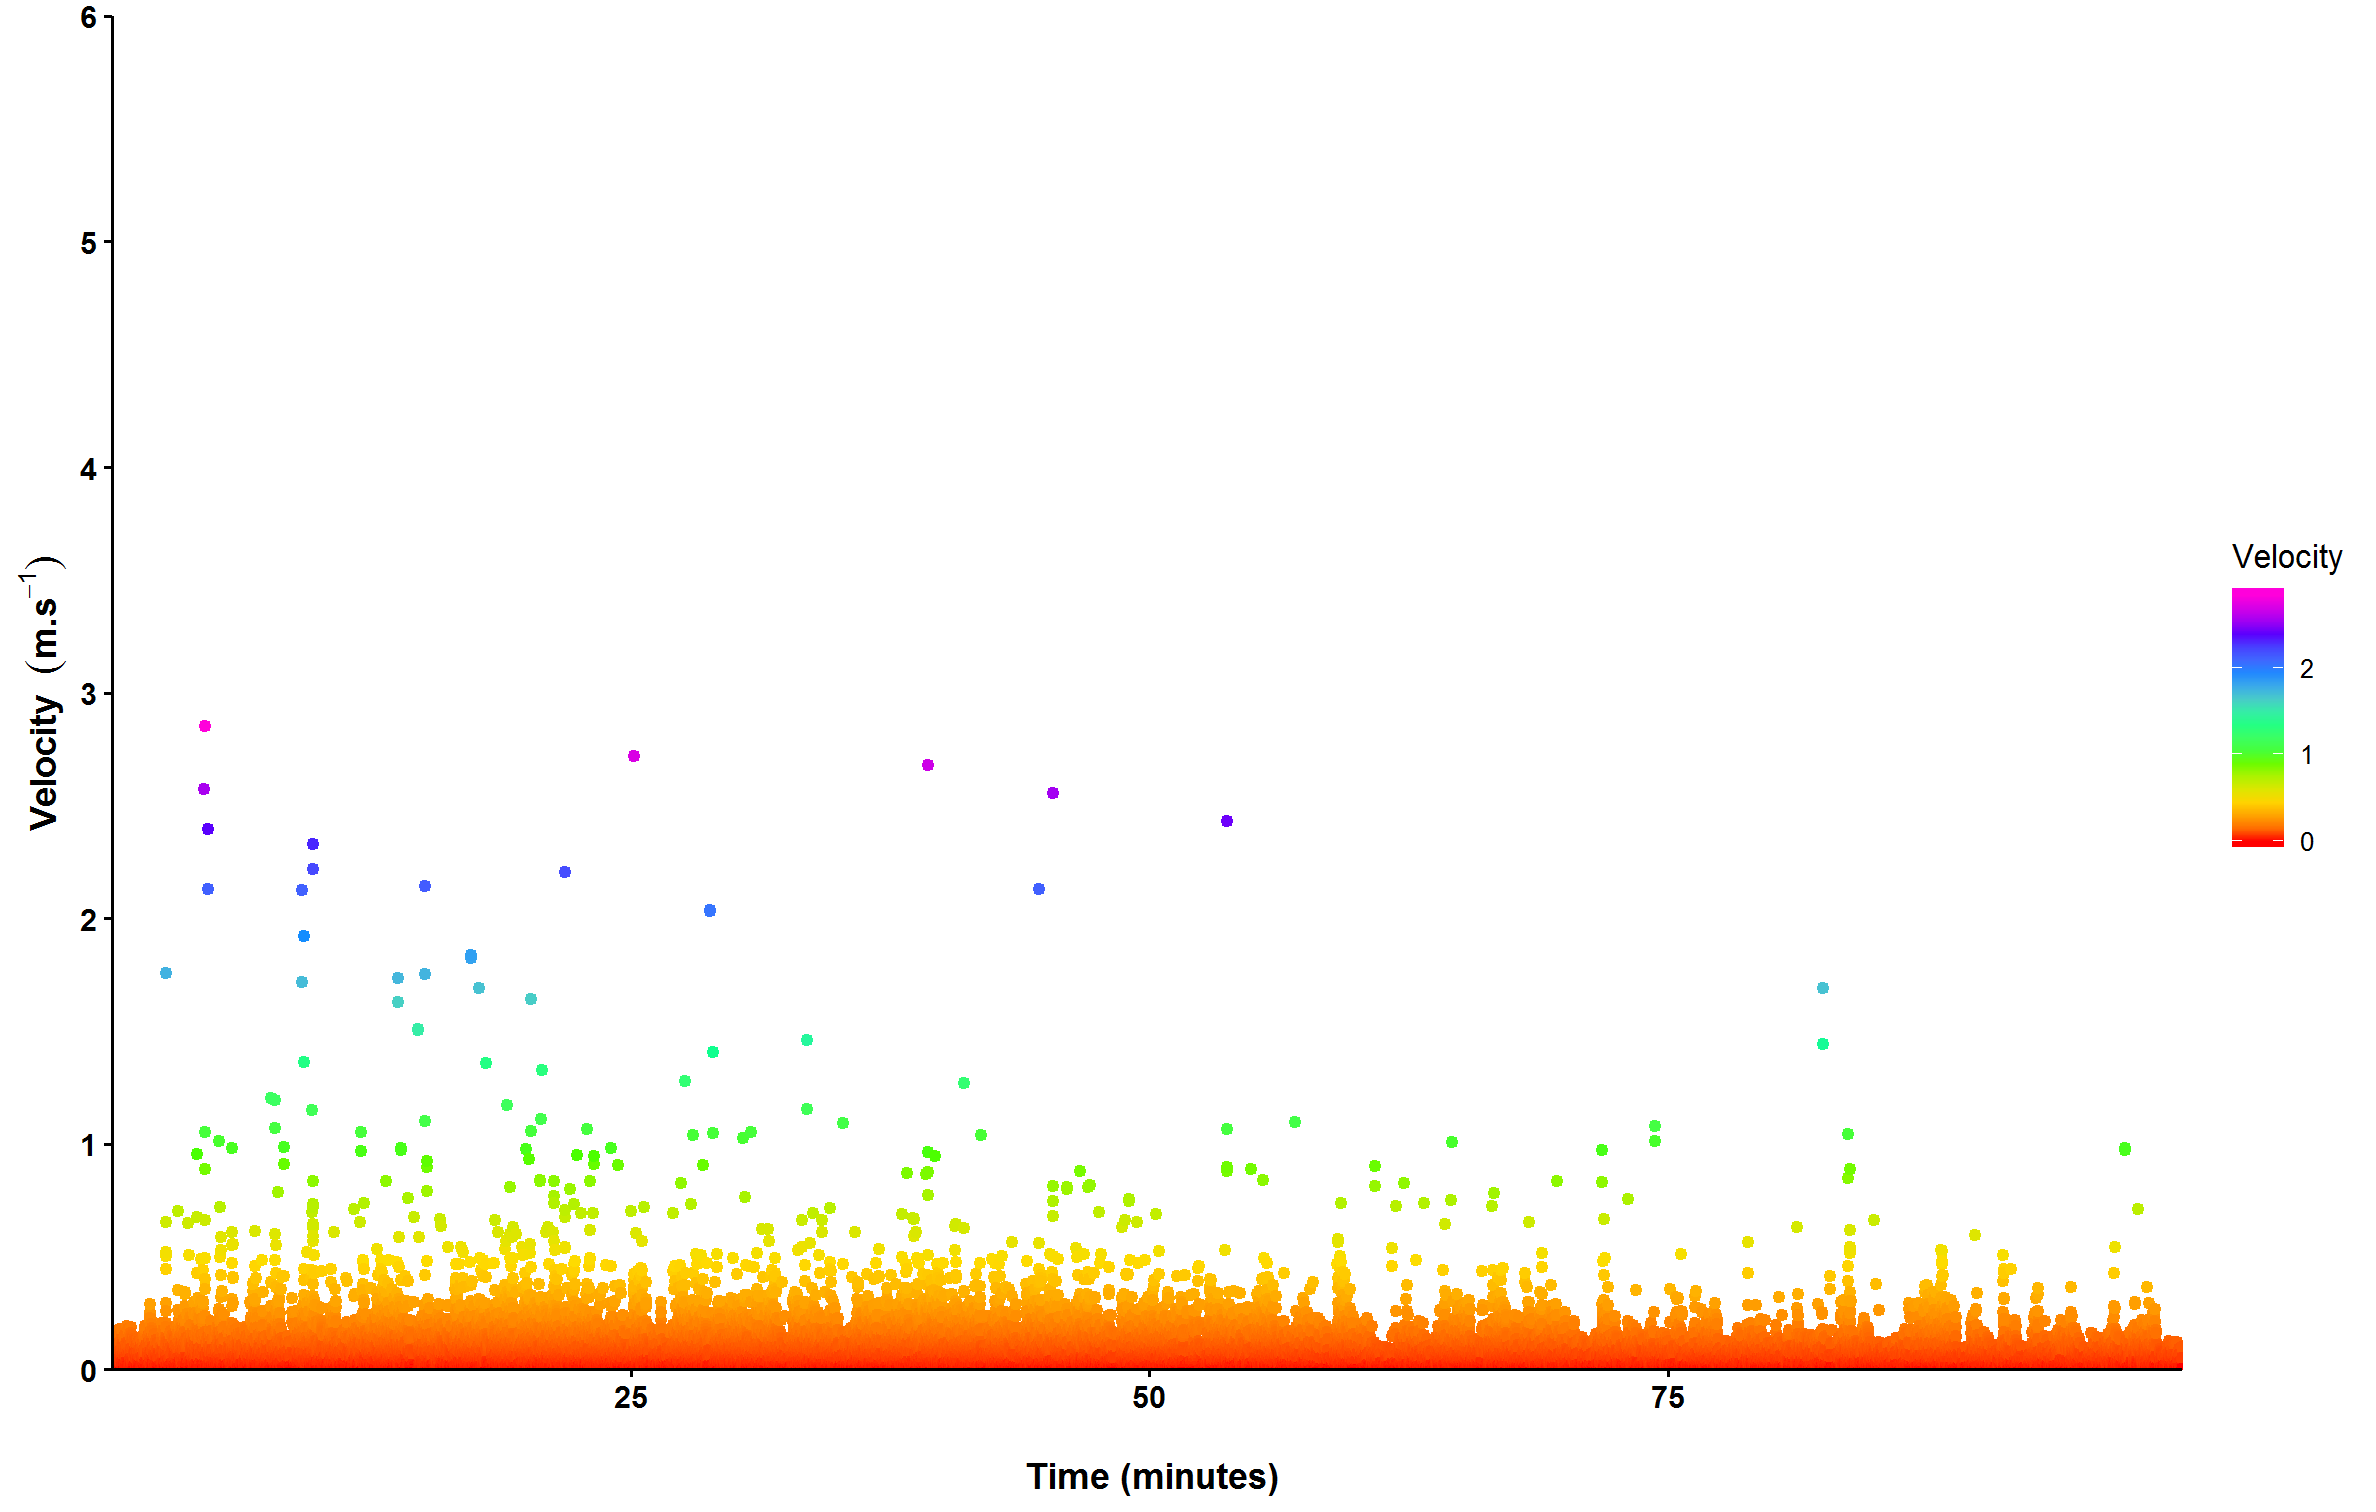
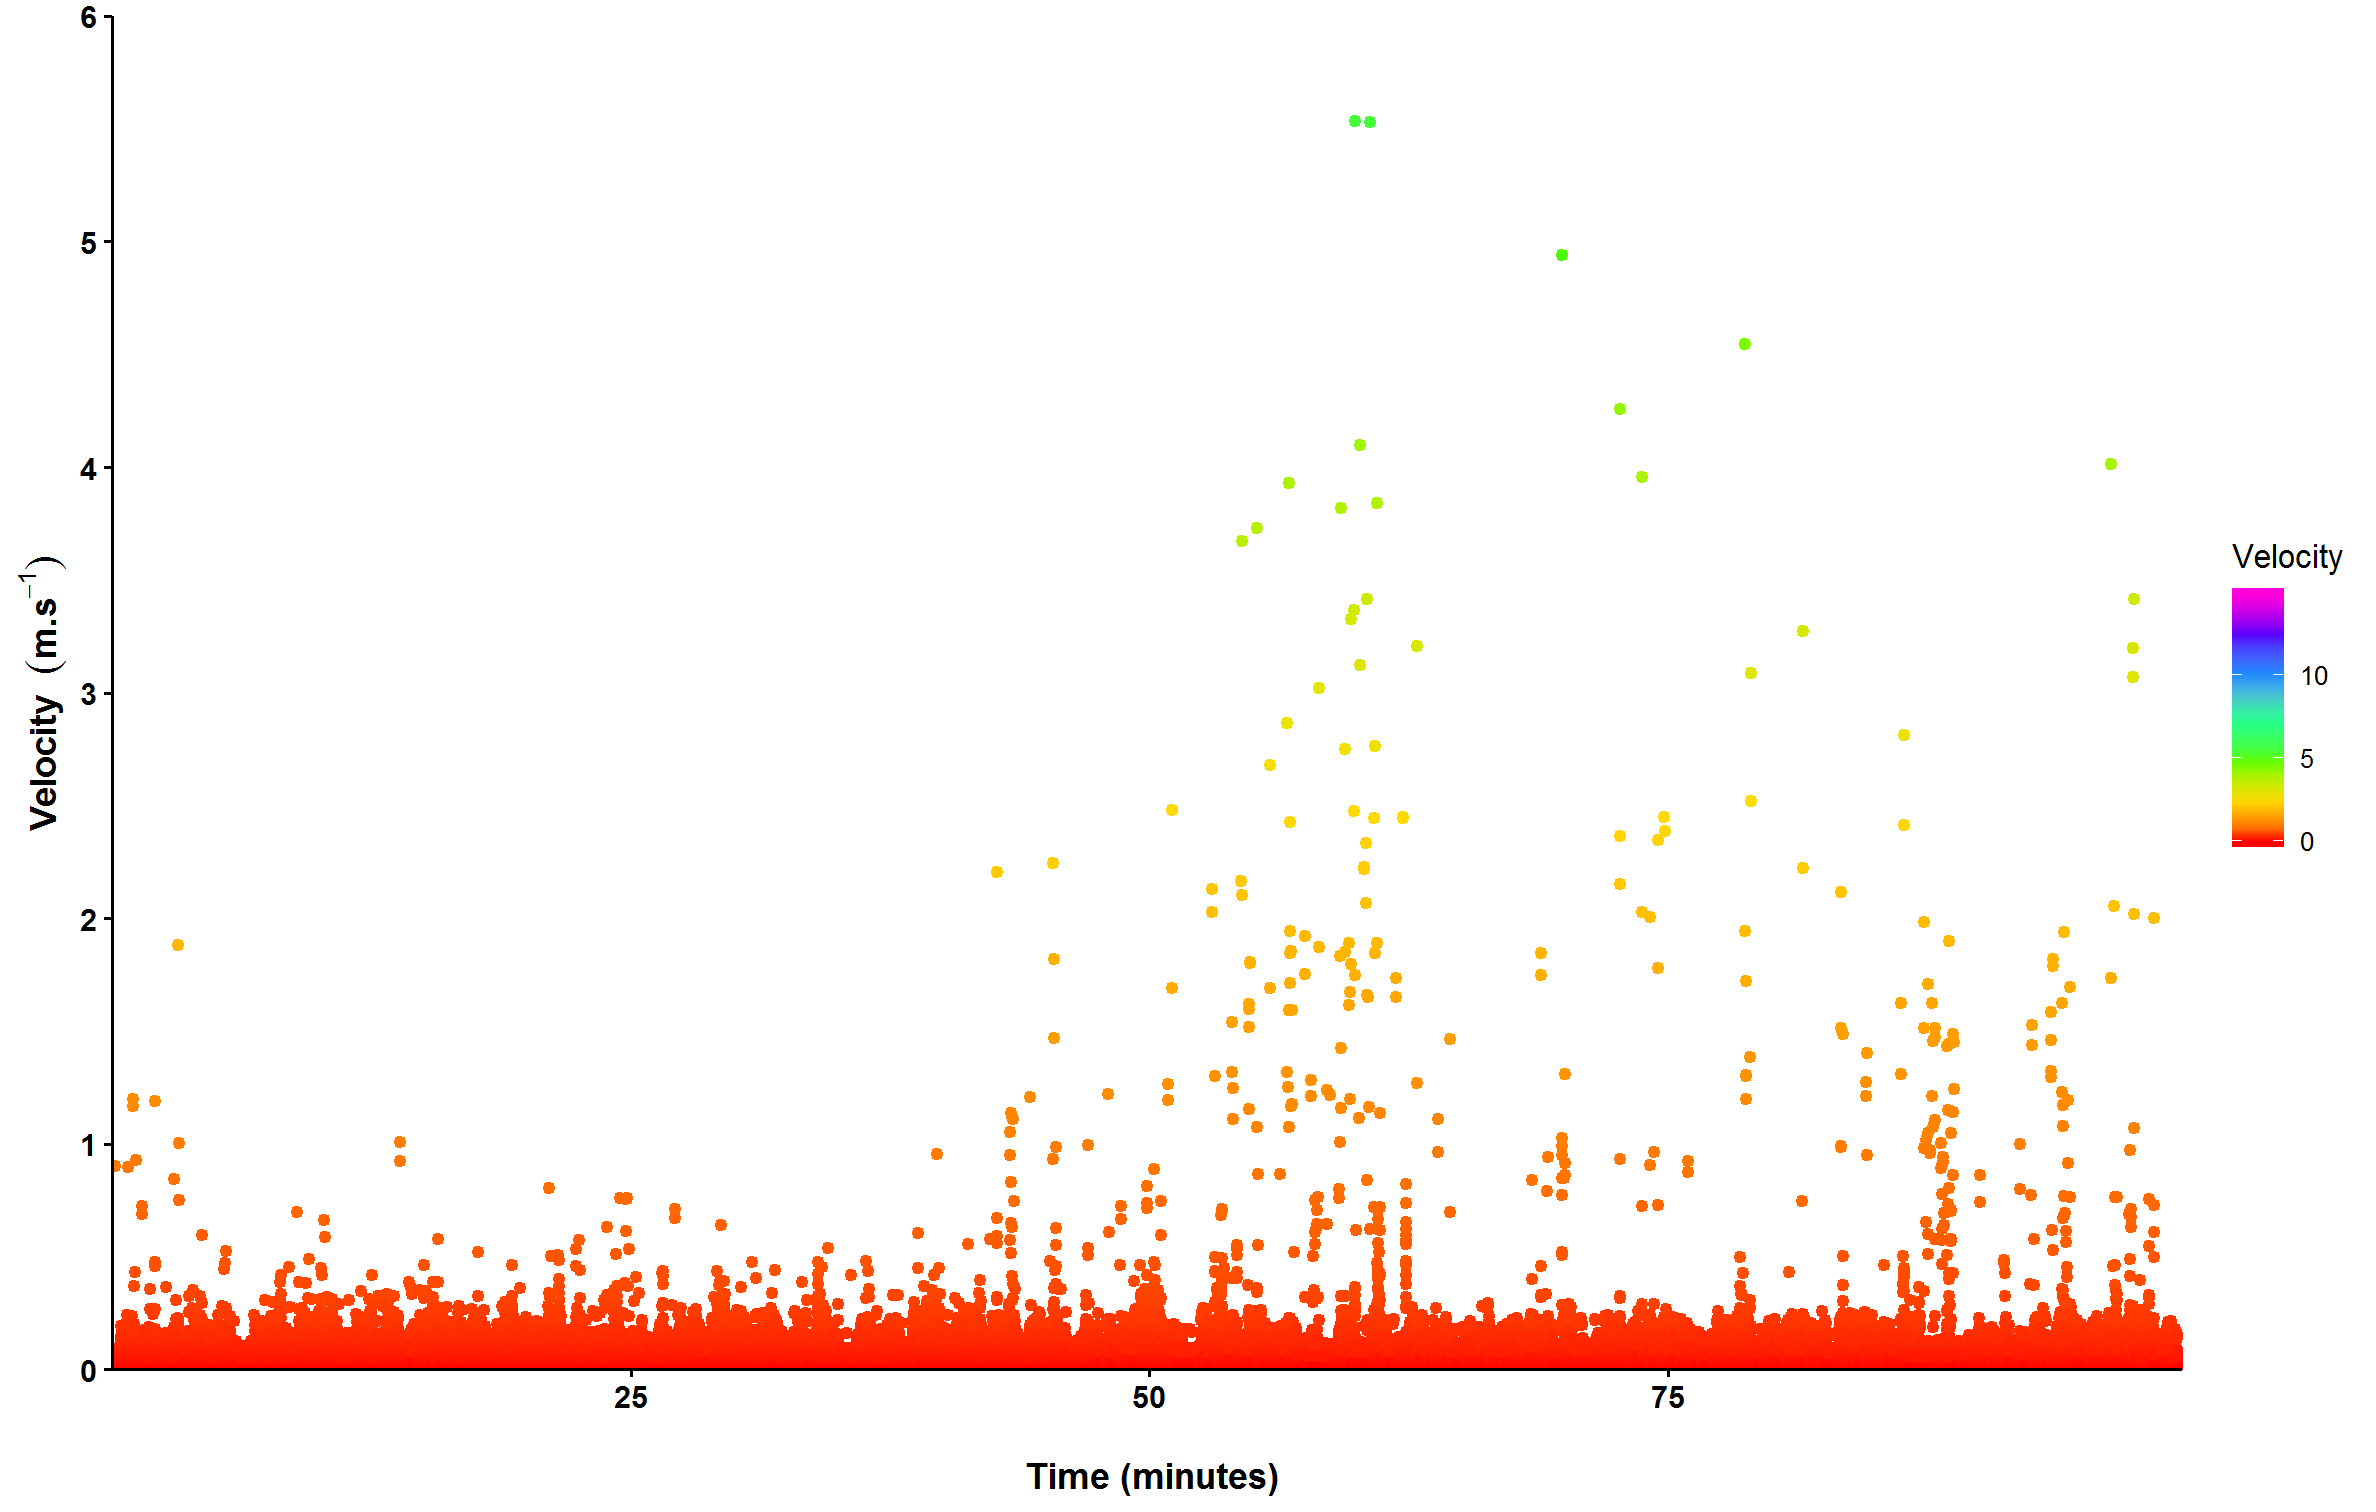
Add files via upload

diff --git a/WCSFWorkshopSlides.html b/WCSFWorkshopSlides.html
@@ -939,11 +939,6 @@ class: center, top
 # Working with Example Tracking
 
 .left[
-Visit [http://bit.ly/2EW0jXZWCSF_RWorkshop_TrackingData](http://bit.ly/2EW0jXZWCSF_RWorkshop_TrackingData) to download the next set of example data and save to `Data` folder within your project.
-]
-
---
-.left[
 
 ```r
 # Load packages
@@ -1101,7 +1096,7 @@ class: center, top
 ```r
 # Make new data.frame, create new column
 ExampleAthleteData &lt;- RawTrackingData %&gt;%
-  select(Period, Frame, Time, TeamB_Player3_X, TeamB_Player3_Y) %&gt;%
+  select(Period, Frame, Time, TeamB_Player5_X, TeamB_Player5_Y) %&gt;%
   mutate(Half = case_when(Period &lt;= 1 ~ "First Half",
                           Period &gt;= 2 ~ "Second Half"))
 ```
@@ -1117,17 +1112,17 @@ head(ExampleAthleteData, 10)
 ```
 
 ```
-##    Period Frame Time       X       Y       Half
-## 1       1     1 0.04 0.69872 0.42173 First Half
-## 2       1     2 0.08 0.69872 0.42173 First Half
-## 3       1     3 0.12 0.69872 0.42173 First Half
-## 4       1     4 0.16 0.69845 0.42192 First Half
-## 5       1     5 0.20 0.69818 0.42209 First Half
-## 6       1     6 0.24 0.69751 0.42542 First Half
-## 7       1     7 0.28 0.69724 0.42555 First Half
-## 8       1     8 0.32 0.69737 0.42248 First Half
-## 9       1     9 0.36 0.69710 0.42257 First Half
-## 10      1    10 0.40 0.69683 0.42264 First Half
+##    Period Frame Time      X       Y       Half
+## 1       1     1 0.04 0.6595 0.70651 First Half
+## 2       1     2 0.08 0.6595 0.70651 First Half
+## 3       1     3 0.12 0.6595 0.70651 First Half
+## 4       1     4 0.16 0.6595 0.70651 First Half
+## 5       1     5 0.20 0.6595 0.70651 First Half
+## 6       1     6 0.24 0.6595 0.70651 First Half
+## 7       1     7 0.28 0.6595 0.70651 First Half
+## 8       1     8 0.32 0.6595 0.70651 First Half
+## 9       1     9 0.36 0.6595 0.70651 First Half
+## 10      1    10 0.40 0.6595 0.70651 First Half
 ```
 ]
 
@@ -1159,11 +1154,11 @@ head(DisplacementData, 5)
 ## # A tibble: 5 x 7
 ##   Period Frame  Time     X     Y Half       Distance
 ##    &lt;dbl&gt; &lt;dbl&gt; &lt;dbl&gt; &lt;dbl&gt; &lt;dbl&gt; &lt;fct&gt;         &lt;dbl&gt;
-## 1      1     1  0.04 0.699 0.422 First Half     1.72
-## 2      1     2  0.08 0.699 0.422 First Half     1.72
-## 3      1     3  0.12 0.699 0.422 First Half     1.72
-## 4      1     4  0.16 0.698 0.422 First Half     1.72
-## 5      1     5  0.2  0.698 0.422 First Half     1.72
+## 1      1     1  0.04 0.660 0.707 First Half     1.66
+## 2      1     2  0.08 0.660 0.707 First Half     1.66
+## 3      1     3  0.12 0.660 0.707 First Half     1.66
+## 4      1     4  0.16 0.660 0.707 First Half     1.66
+## 5      1     5  0.2  0.660 0.707 First Half     1.66
 ```
 ]
 
@@ -1193,11 +1188,11 @@ head(VelocityData, 5)
 ## # Groups:   Half [1]
 ##   Period Frame  Time     X     Y Half       Distance Velocity
 ##    &lt;dbl&gt; &lt;dbl&gt; &lt;dbl&gt; &lt;dbl&gt; &lt;dbl&gt; &lt;fct&gt;         &lt;dbl&gt;    &lt;dbl&gt;
-## 1      1     1  0.04 0.699 0.422 First Half     1.72 NA      
-## 2      1     2  0.08 0.699 0.422 First Half     1.72  0      
-## 3      1     3  0.12 0.699 0.422 First Half     1.72  0      
-## 4      1     4  0.16 0.698 0.422 First Half     1.72  0.00825
-## 5      1     5  0.2  0.698 0.422 First Half     1.72  0.00798
+## 1      1     1  0.04 0.660 0.707 First Half     1.66       NA
+## 2      1     2  0.08 0.660 0.707 First Half     1.66        0
+## 3      1     3  0.12 0.660 0.707 First Half     1.66        0
+## 4      1     4  0.16 0.660 0.707 First Half     1.66        0
+## 5      1     5  0.2  0.660 0.707 First Half     1.66        0
 ```
 ]
 
@@ -1222,6 +1217,18 @@ class: inverse, center, top
 background-image: url(https://raw.githubusercontent.com/SportStatisticsRSweet/WCSF_WorkshopInR/master/Figures/AFL_Hunter.JPG)
 background-size: cover
 # Over To You!
+
+---
+
+class: center, top
+
+# Downloading Data
+
+
+.left[
+Visit [http://bit.ly/2EW0jXZWCSF_RWorkshop_TrackingData](http://bit.ly/2EW0jXZWCSF_RWorkshop_TrackingData) to download the next set of example data and save to `Data` folder within your project.
+]
+
 
 ---
 
